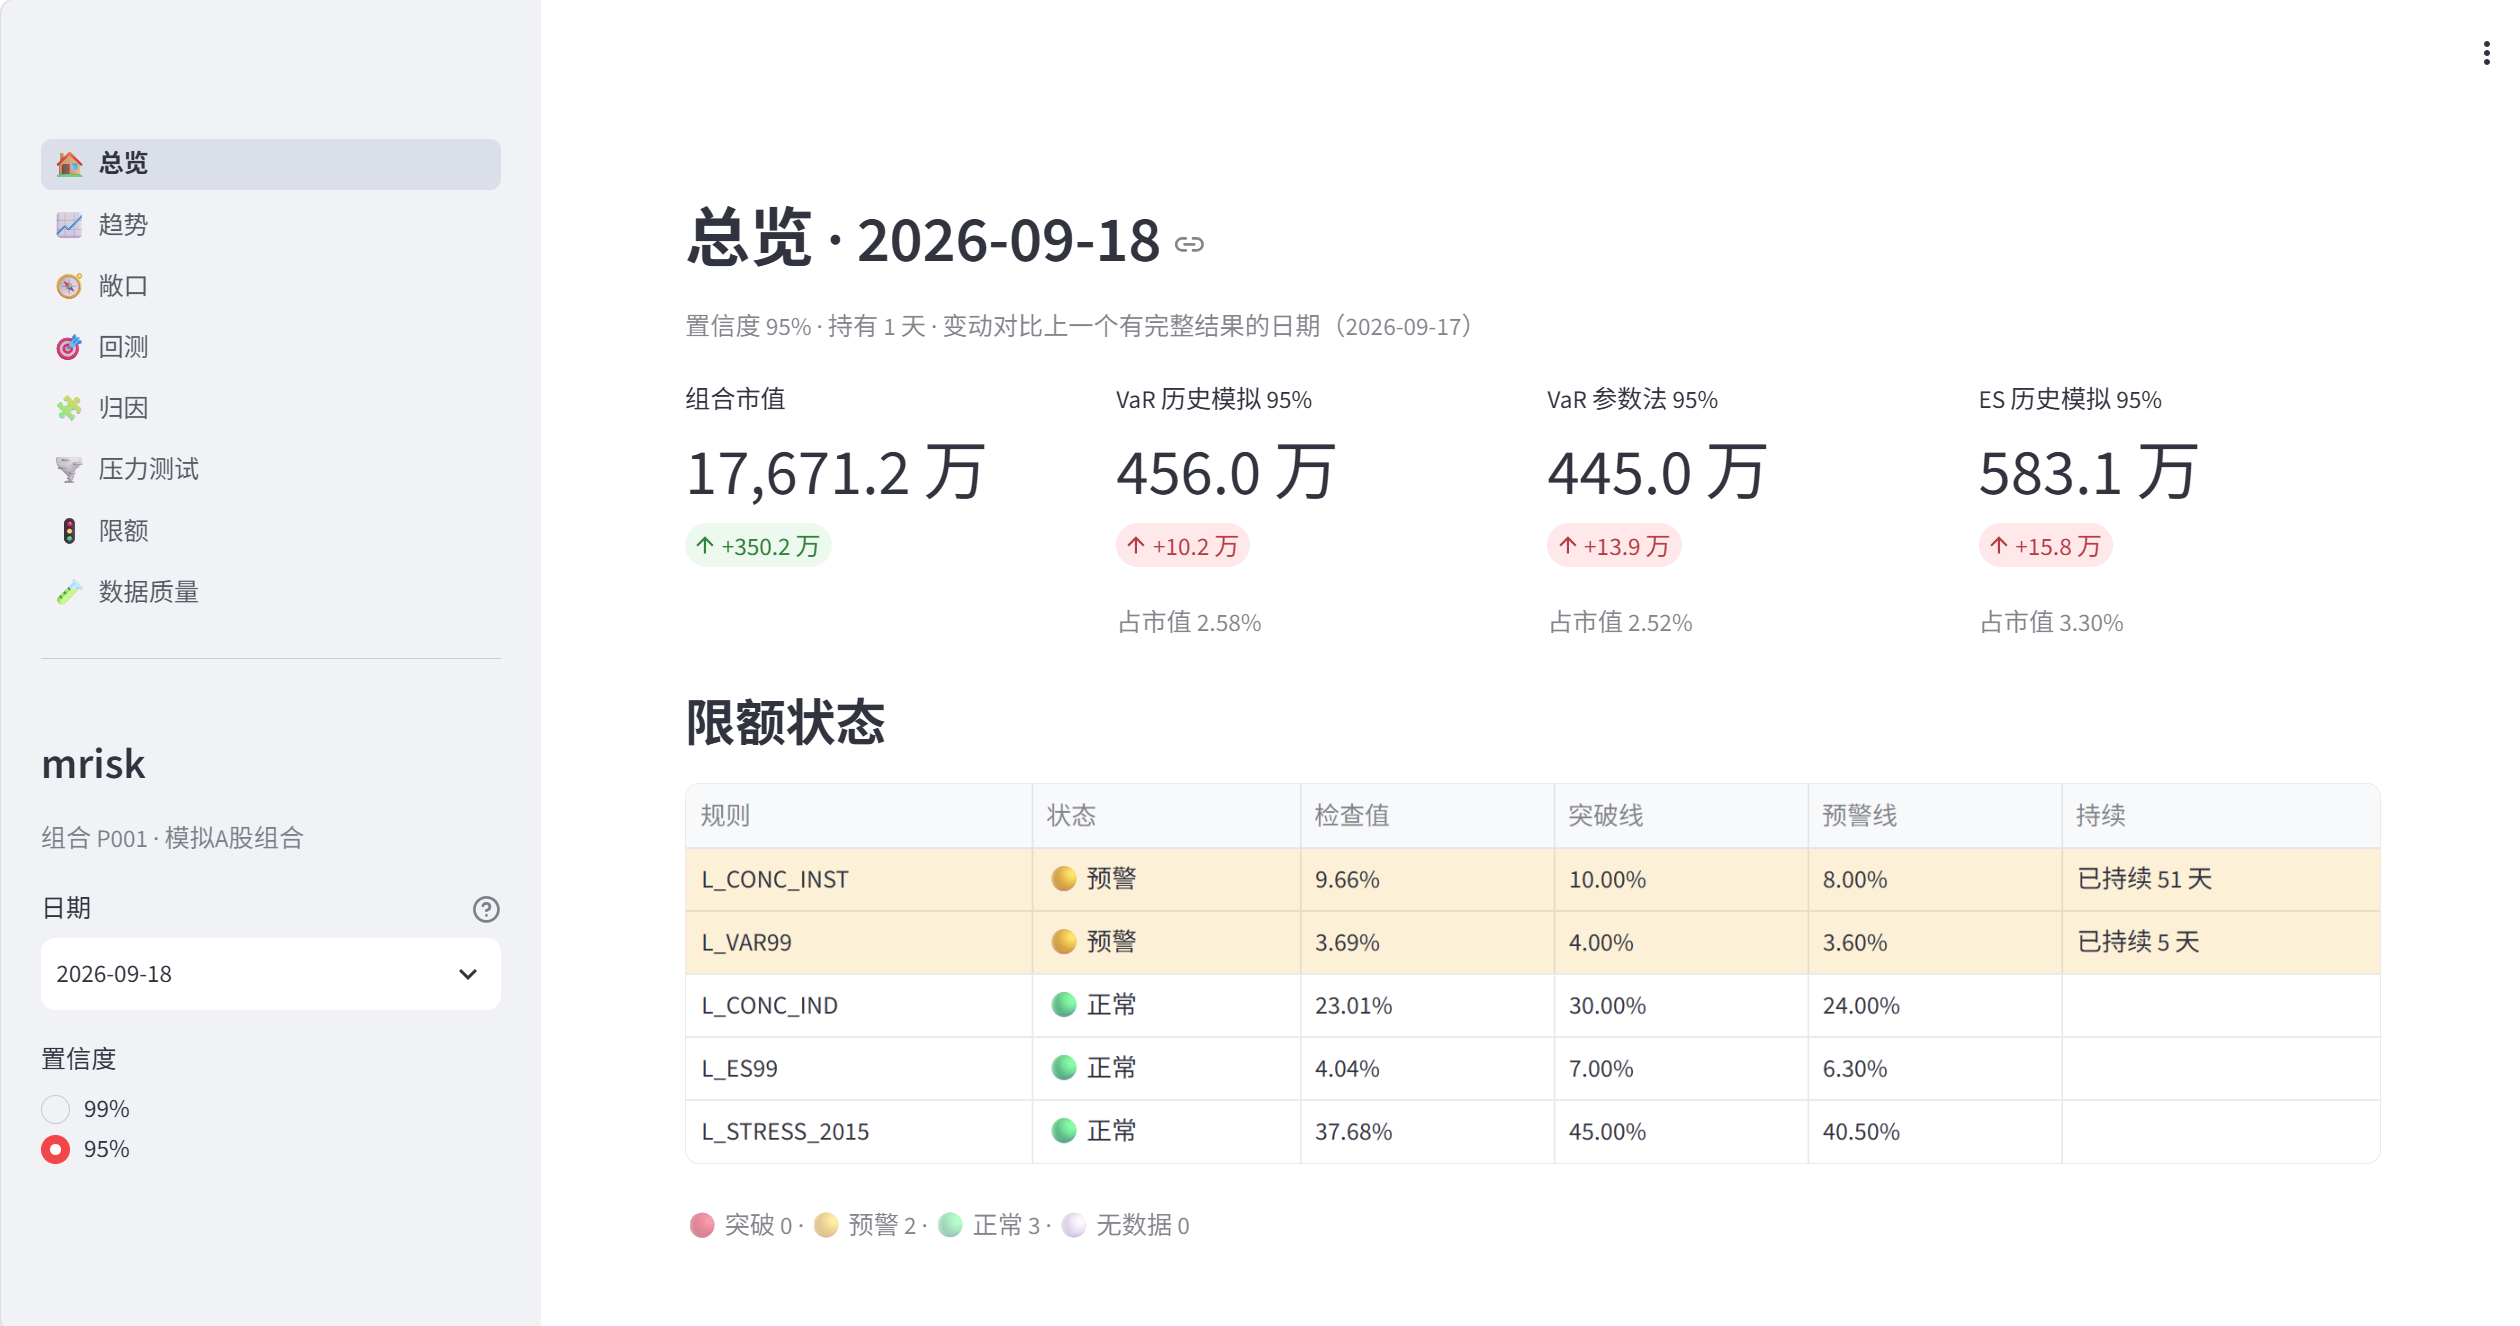
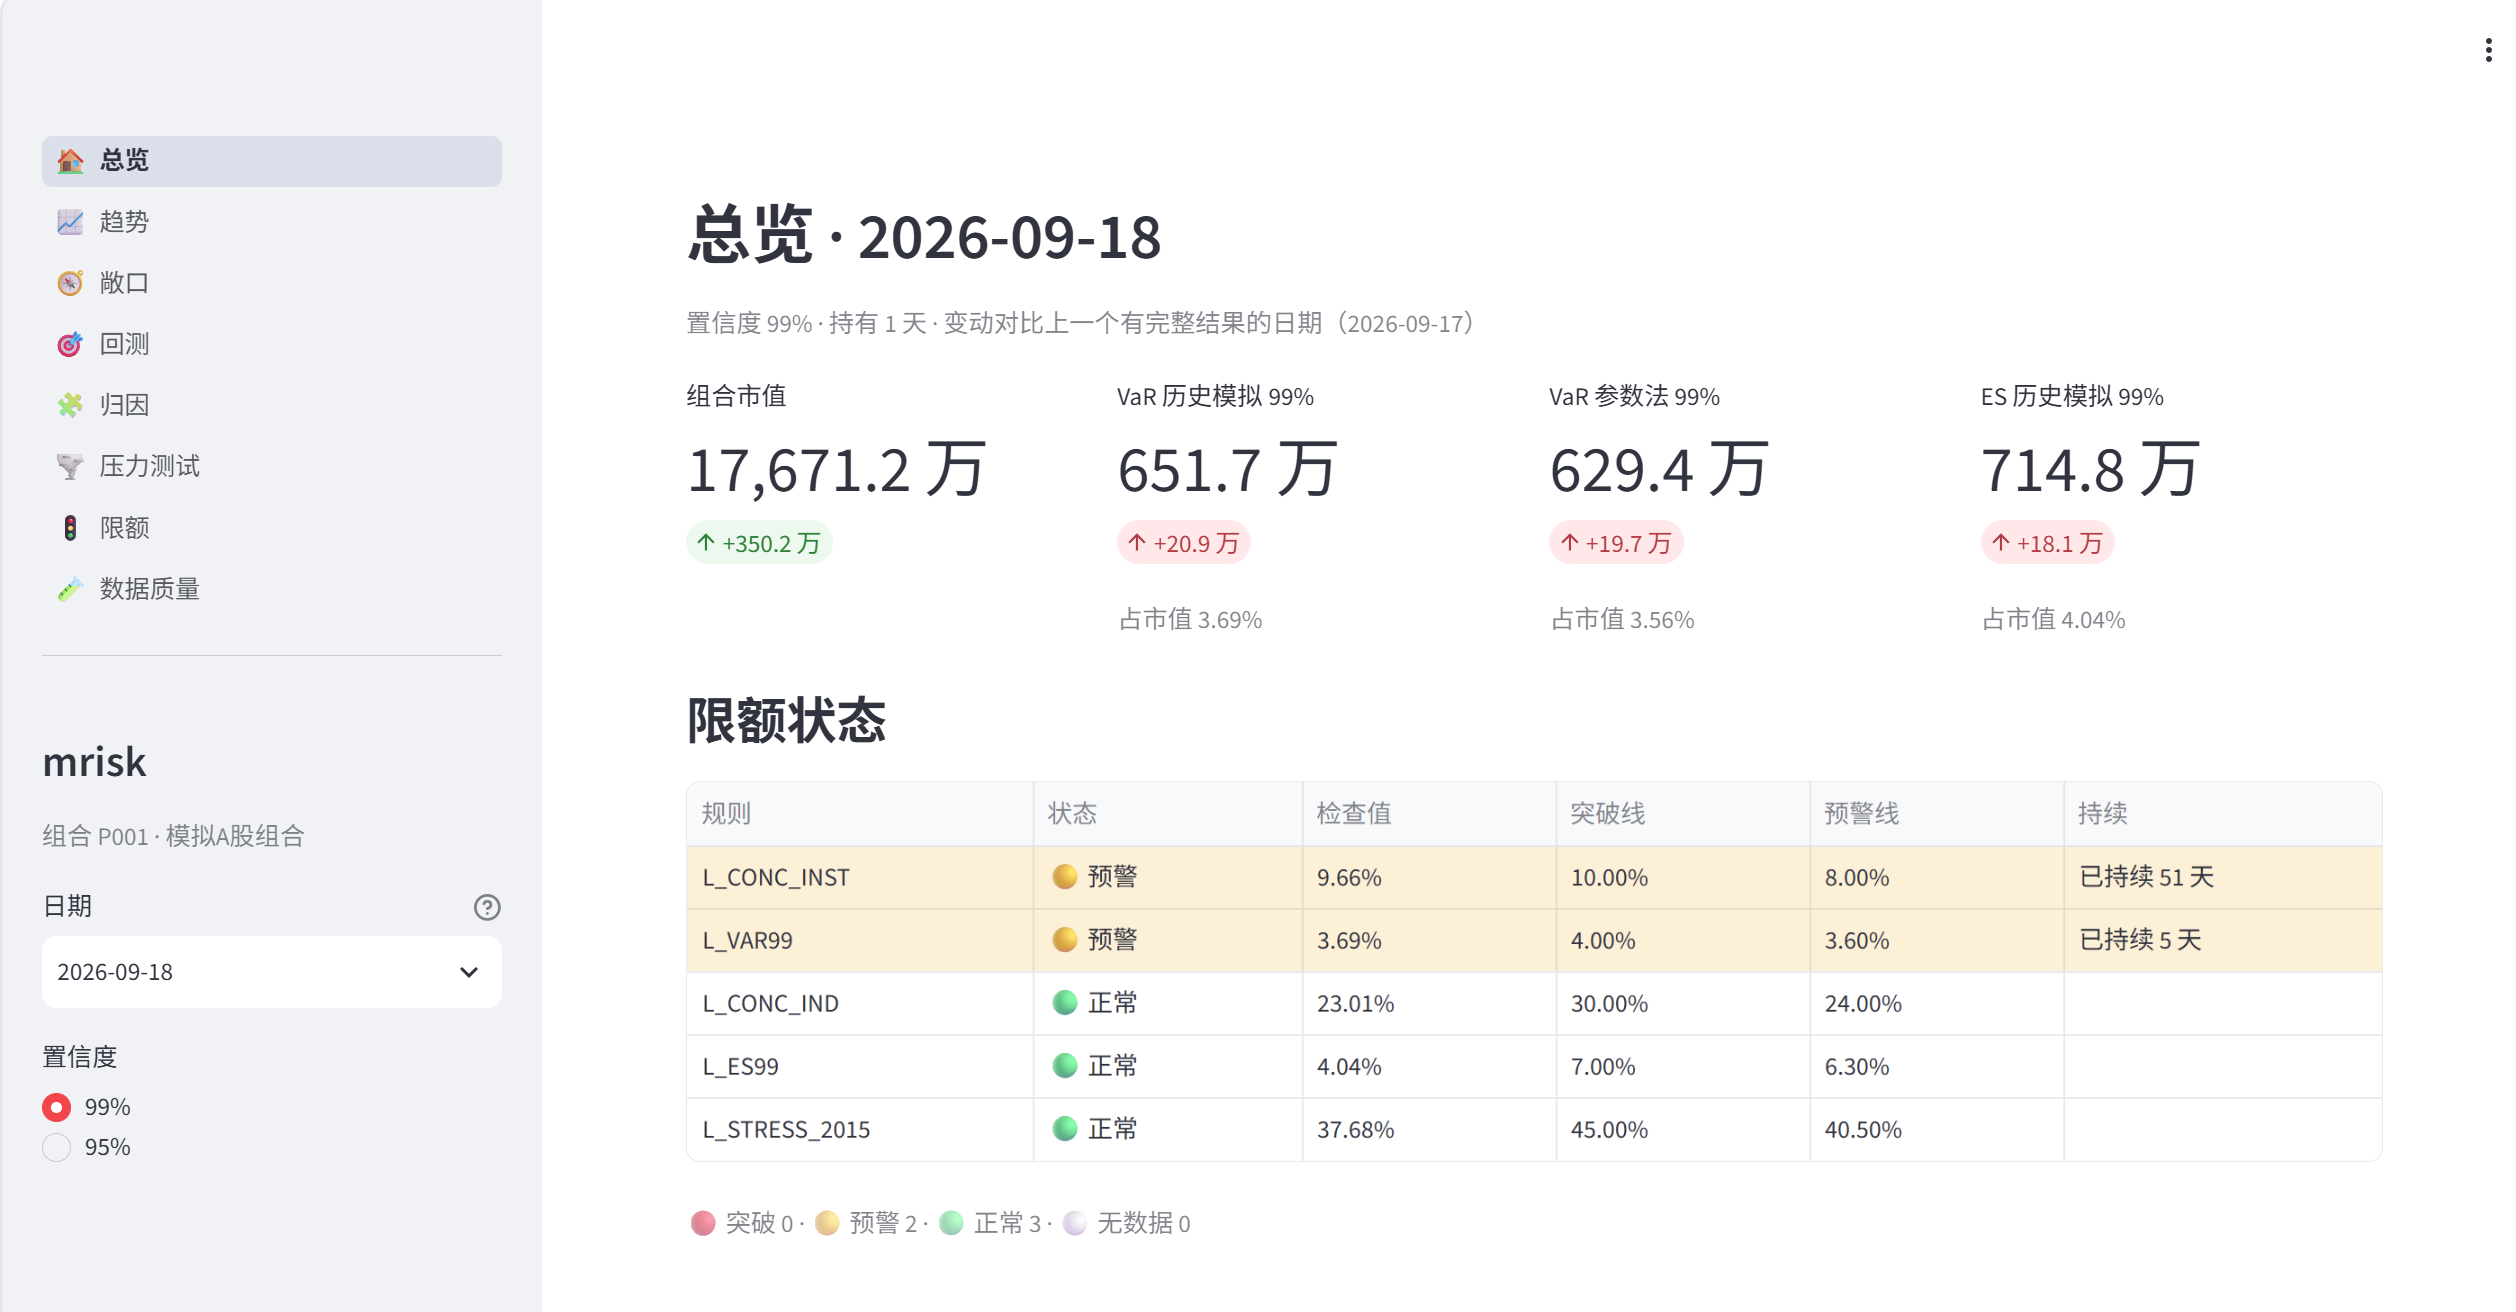
README: overview screenshot retaken at 99%, so the VaR card matches L_VAR99; caption follows

diff --git a/README.md b/README.md
@@ -1,7 +1,7 @@
 # mrisk — A 股股票组合的市场风险系统
 
 ![总览：市值、VaR / ES 及日变动，5 条限额的状态灯](docs/figures/overview.png)
-*总览（2026-09-18，95%）：市值、历史模拟与参数法 VaR、ES 及对上一日的变动；5 条限额中 2 条预警，标出已持续天数。*
+*总览（2026-09-18，99%）：市值、历史模拟与参数法 VaR、ES 及对上一日的变动；5 条限额中 2 条预警，标出已持续天数。*
 
 ![回测：95% 下的例外次数、红绿灯、Kupiec 与独立性检验，假设损益对 −VaR](docs/figures/backtest-95.png)
 *回测（95%，滚动 250 个观测）：历史模拟 19 次例外、黄灯，参数法 13 次、绿灯；红绿灯边界由二项分布按 (p, 窗口) 推出。*
